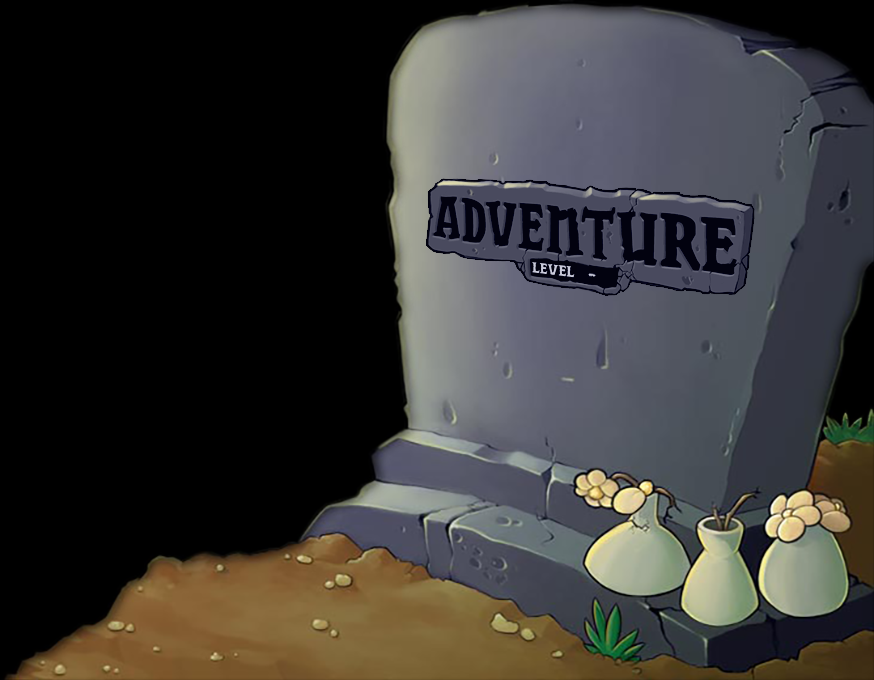
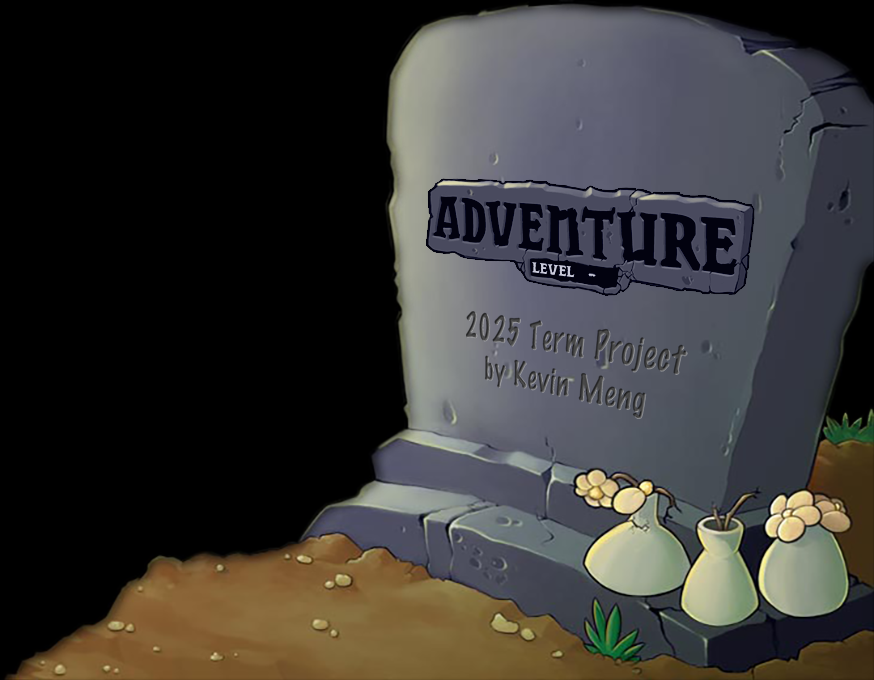
Start page graphics designing

Changed region(s): [[0.5252, 0.4632, 0.8032, 0.6176]]

diff --git a/main.py b/main.py
@@ -21,22 +21,20 @@ def start_redrawAll(app):
     drawImage(app.selectorImage, 1280, 720, align='bottom-right')
     # draw the title image (at the left center of the screen)
     drawImage('image/PvZ_Logo.jpg', titleX, titleY, align='center')
-    # draw the subtitle and credit label
-    drawLabel('2025 Term Project', titleX, titleY + 78, size=30, fill='white', align='center', opacity=70, bold=True, italic=True)
-    drawLabel('by Kevin Meng', titleX, titleY + 108, align='center', size=15, fill='white', opacity=70, bold=True, italic=True)
+    # draw the subtitle
+    drawImage('image/subtitle.png', titleX, titleY + 100, width=550, height=100, align='center')
     # for debugging purposes, show the mouse coordinates
     drawLabel(f'Mouse: {app.mouseX}, {app.mouseY}', 20, app.height - 20, size=15, fill='white', align='bottom-left', opacity=60)
 
-
-
+# alternate way to go to chapters screen
 def start_onKeyPress(app, key):
     if key == 'space':
         setActiveScreen('chapters')
 
-
 def start_onMousePress(app, mouseX, mouseY):
-
-    pass
+    # check if the mouse has pressed the start button
+    if start_isOnStartButton(app, mouseX, mouseY):
+        setActiveScreen('chapters')
 
 def start_onMouseMove(app, mouseX, mouseY):
     # update the mouse coordinates in the app object
@@ -46,15 +44,27 @@ def start_onMouseMove(app, mouseX, mouseY):
     if start_isOnStartButton(app, mouseX, mouseY):
         # draw the highlighted start button
         app.selectorImage = 'image/SelectorScreen_withbutton_highlight.png'
+    else:
+        # draw the normal start button
+        app.selectorImage = 'image/SelectorScreen_withbutton.png'
+
 
 def start_isOnStartButton(app, mouseX, mouseY):
-    # Check if the mouse is within the bounds of the start button
-    buttonLeft = 830
-    buttonTop = 220
-    buttonWidth = 300
-    buttonHeight = 80
+    # topEdge -> y = 0.140625x+173.28125
+    # bottomEdge -> y = 0.0746269x + 158.0597
+    # leftEdge -> y = y=0.307229x
+    # rightEdge -> y = -6x + 7235
+    # top-left: (830, 220)
+    # top-right: (1165, 245)
+    # buttom-left: (830, 290)
+    # buttom-right: (1150, 335)
 
-    return (buttonLeft <= mouseX <= buttonLeft + buttonWidth) and (buttonTop <= mouseY <= buttonTop + buttonHeight)
+    # Check if the mouse is within the bounds of the start button
+    return (mouseY <= 0.140625*mouseX+173.28125) and \
+            (mouseY >= 0.0746269*mouseX + 158.0597) and \
+            (mouseX >= 830) and \
+            (mouseX <= (mouseY - 7235)/-6)
+
 
 ##############################
 # chapters screen
@@ -64,11 +74,11 @@ def chapters_onScreenActivate(app):
     app.selectedChapter = None
 
 def chapters_redrawAll(app):
-    drawLabel('Choose a chapter with your keyboard', app.width/2, 80, size=30, fill='black', bold=True)
+    drawLabel('Choose a level with your keyboard', app.width/2, 80, size=30, fill='white', bold=True)
     drawLabel('Press ESC to return to the start screen', app.width/2, 115, size=20, fill='black', opacity=70)
-    drawLabel('1. Chapter One', 100, 150, size=20, fill='black')
-    drawLabel('2. Chapter Two', 100, 200, size=20, fill='black')
-    drawLabel('3. Chapter Three', 100, 250, size=20, fill='black')
+    drawLabel('1. Chapter One', 100, 150, size=20, fill='white')
+    drawLabel('2. Chapter Two', 100, 200, size=20, fill='white')
+    drawLabel('3. Chapter Three', 100, 250, size=20, fill='white')
 
 def chapters_onKeyPress(app, key):
     if key == 'escape':

diff --git a/info.md b/info.md
@@ -1,0 +1,13 @@
+#### start button
+
+top-left: (830, 220)
+
+top-right: (1165, 245)
+
+buttom-left: (830, 290)
+
+buttom-right: (1150, 335)
+
+##### lines: 
+
+- top: 
